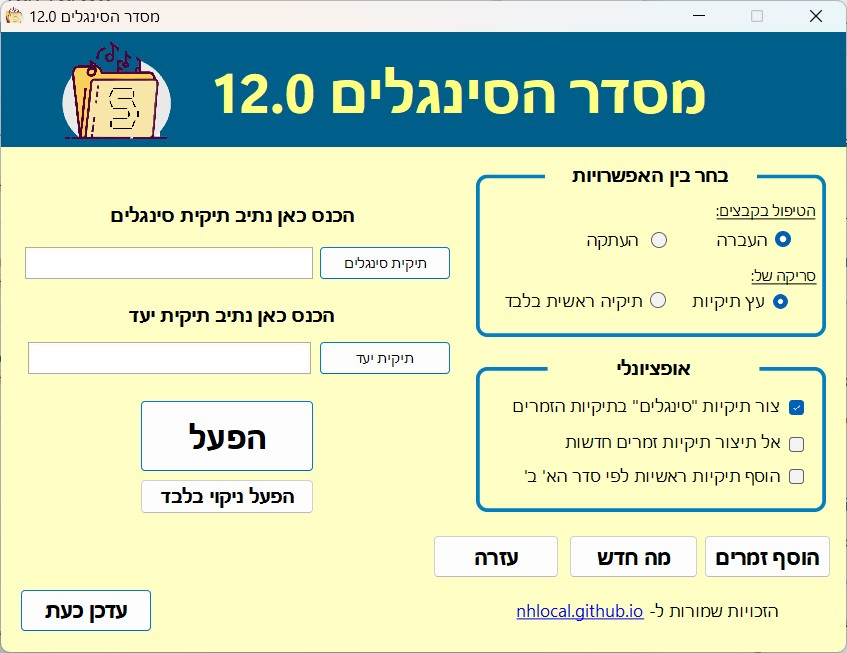
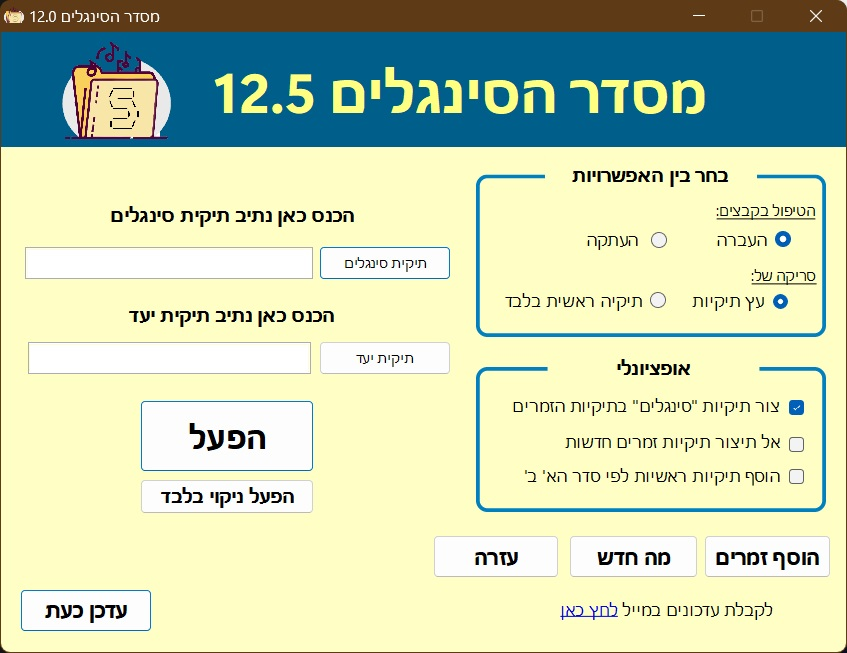
גרסה 12.5 תצוגה

diff --git a/site/download.html b/site/download.html
@@ -52,7 +52,7 @@
 
 
     // הגדרת משתנה להחלפה בכל עדכון גרסה
-    var cur_ver = "12.0"
+    var cur_ver = "12.5"
 	
 	// השהייה של מספר שניות לפני הורדה וסגירת הכרטיסיה
 	setTimeout(myFunc, 4000);
